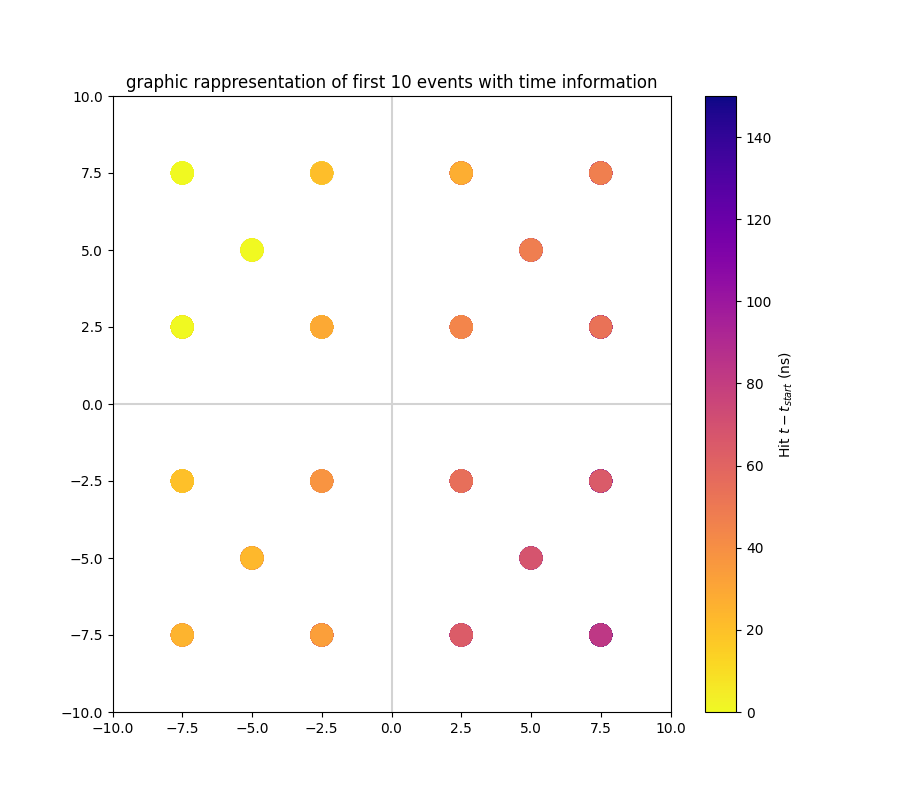
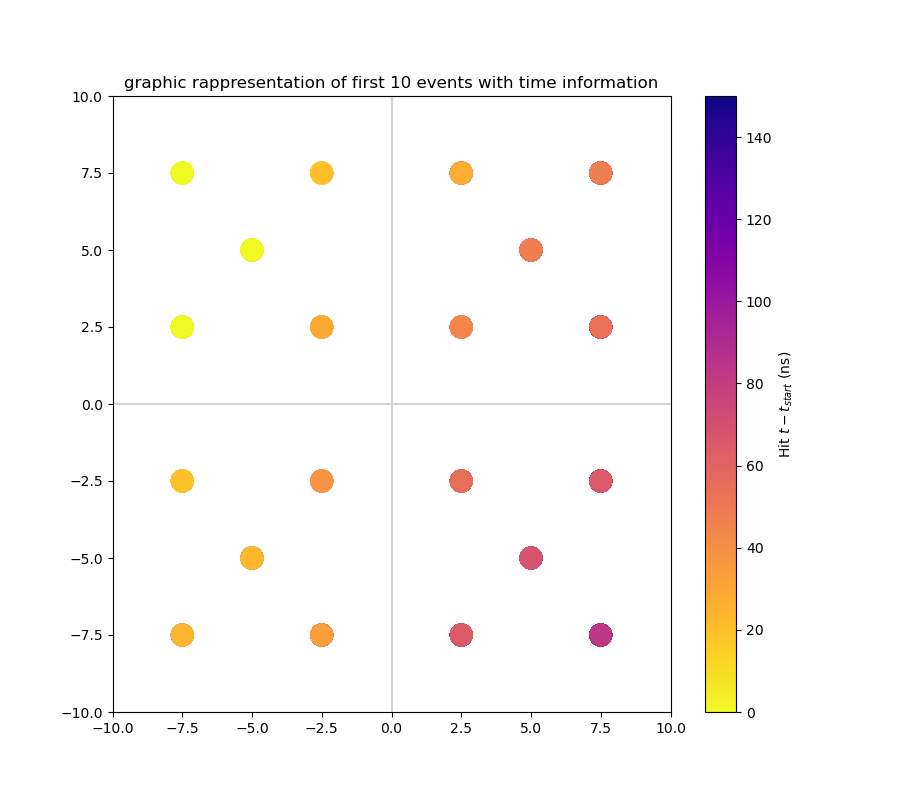
newdir

Changed region(s): [[0.1244, 0.0938, 0.7467, 0.125]]

diff --git a/esercitazione_9b/rivelatori.py b/esercitazione_9b/rivelatori.py
@@ -152,8 +152,8 @@ aPosHitY = np.empty(0)
 aTHit = np.empty(0)
 
 
-### STEP 5
-if True:
+### plasma rappresentation of first 10 events all together (overwritten scatter plot)
+if False:
     img,ax = plt.subplots(figsize=(9,8))
     plt.scatter(aX, aY, color='lightgray', s=240, alpha=0.3)
     for i in range(10):
@@ -170,4 +170,37 @@ if True:
     plt.colorbar( ax=ax, label='Hit $t-t_{start}$ (ns)')
     plt.clim(0, 150)
     plt.savefig('plasmaPlot.png')
+    plt.show()        
+
+    
+### plasma rappresentation of first 10 events
+
+if True:
+    fig,ax = plt.subplots(2 ,5 , figsize=(25, 10))
+    for i in range(10):
+        aPosHitX = np.empty(0)
+        aPosHitY = np.empty(0)
+        aTHit = np.empty(0)
+        y = 0
+        z = i
+        if i>4 :
+            y = 1
+            z = i-5
+        ax[y,z].scatter(aX, aY, color='lightgray', s=240, alpha=0.3)
+        for h in aEve[i].ahit:
+            aPosHitX = np.append(aPosHitX, xmod[h.module]+xdet[h.sensor])
+            aPosHitY = np.append(aPosHitY, ymod[h.module]+ydet[h.sensor])
+            aTHit = np.append(aTHit, h.time-aEve[i].tfhit)
+            jj = ax[y,z].scatter(aPosHitX, aPosHitY, s=240, c=aTHit, cmap='plasma_r')
+            ax[y,z].set_title(f'event{i}')
+            ax[y,z].axvline( 0, color='lightgray')
+            ax[y,z].axhline( 0, color='lightgray')
+            ax[y,z].set_xlim(-10, 10)
+            ax[y,z].set_ylim(-10, 10)
+        
+    fig.suptitle('graphic rappresentation of first 10 events with time information')
+    fig.colorbar(jj, ax=ax.ravel().tolist(), label='Hit $t-t_{start}$ (ns)')
+    jj.set_clim(0, 150)
+    #plt.clim(0, 150)
+    plt.savefig('plasmaSubplot.png')
     plt.show()        
